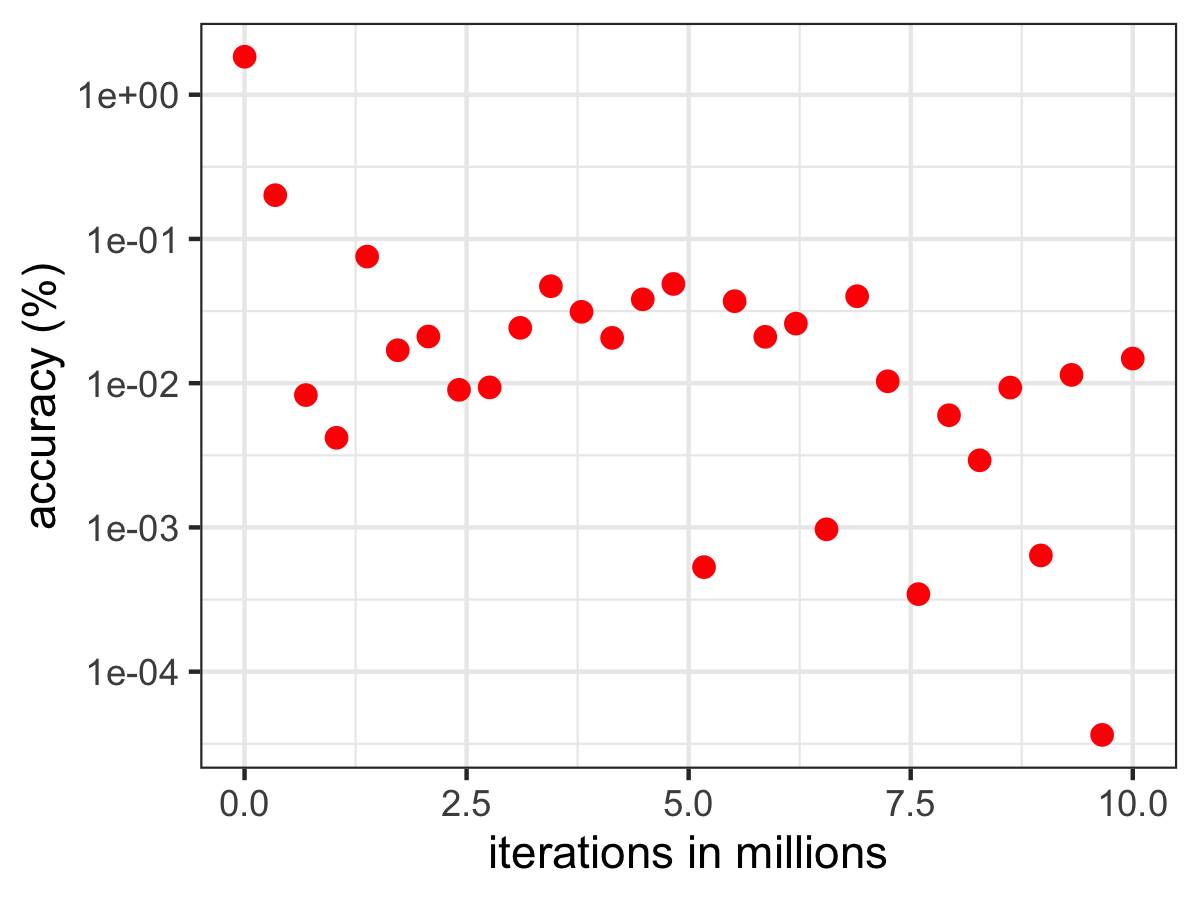
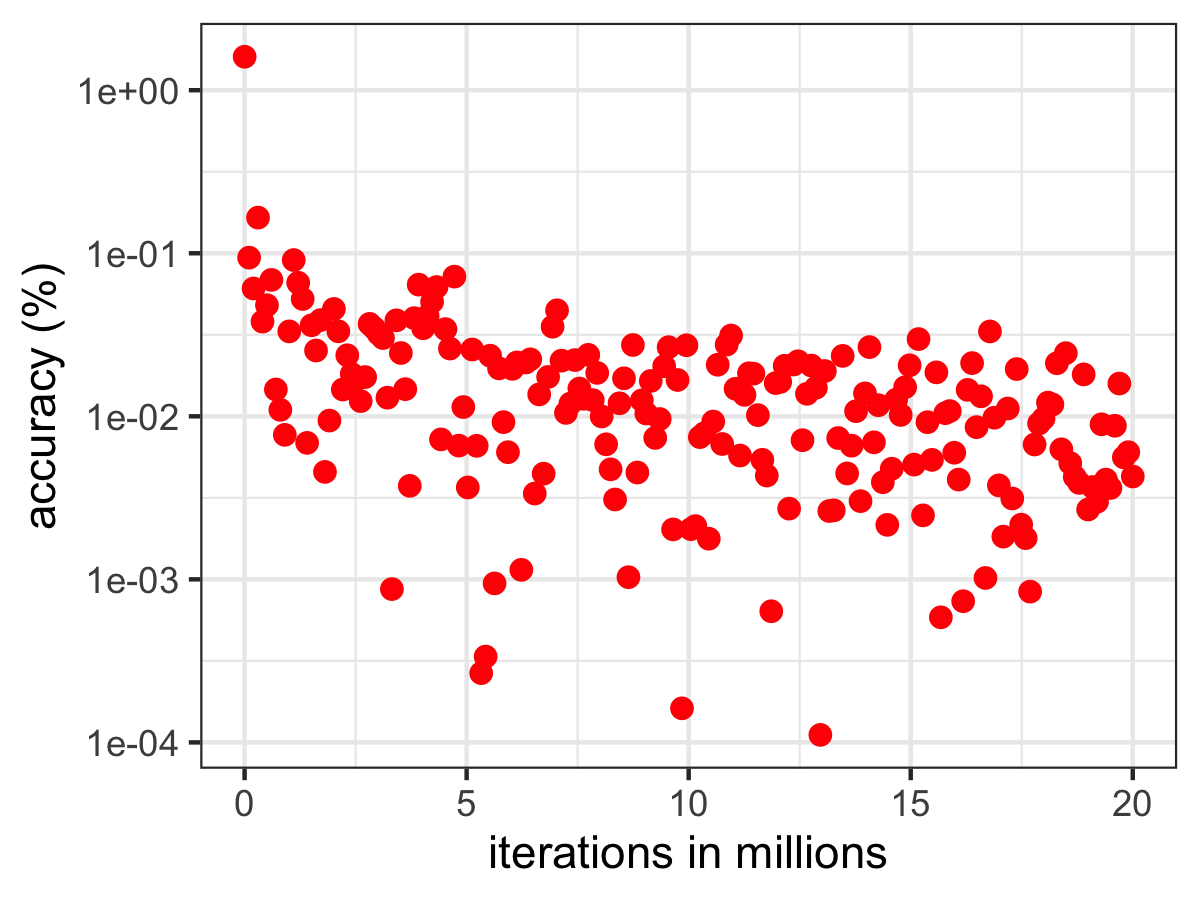
with 200 data points

diff --git a/README.md b/README.md
@@ -3,4 +3,6 @@
  
 ## Timing
 
-Computing 2 million steps takes about 103 ms. The result is `3.142`, so result is about 0.01% accurate. The accuracy gets better with iterations.
+Computing 2 million steps takes about 103 ms. A typical result is `3.142`, so result is about 0.01% accurate. The accuracy gets better with iterations.
+
+![Accuracy of Pi generated by Monte Carlo increases with number of iterations](pi-accuracy.png)
